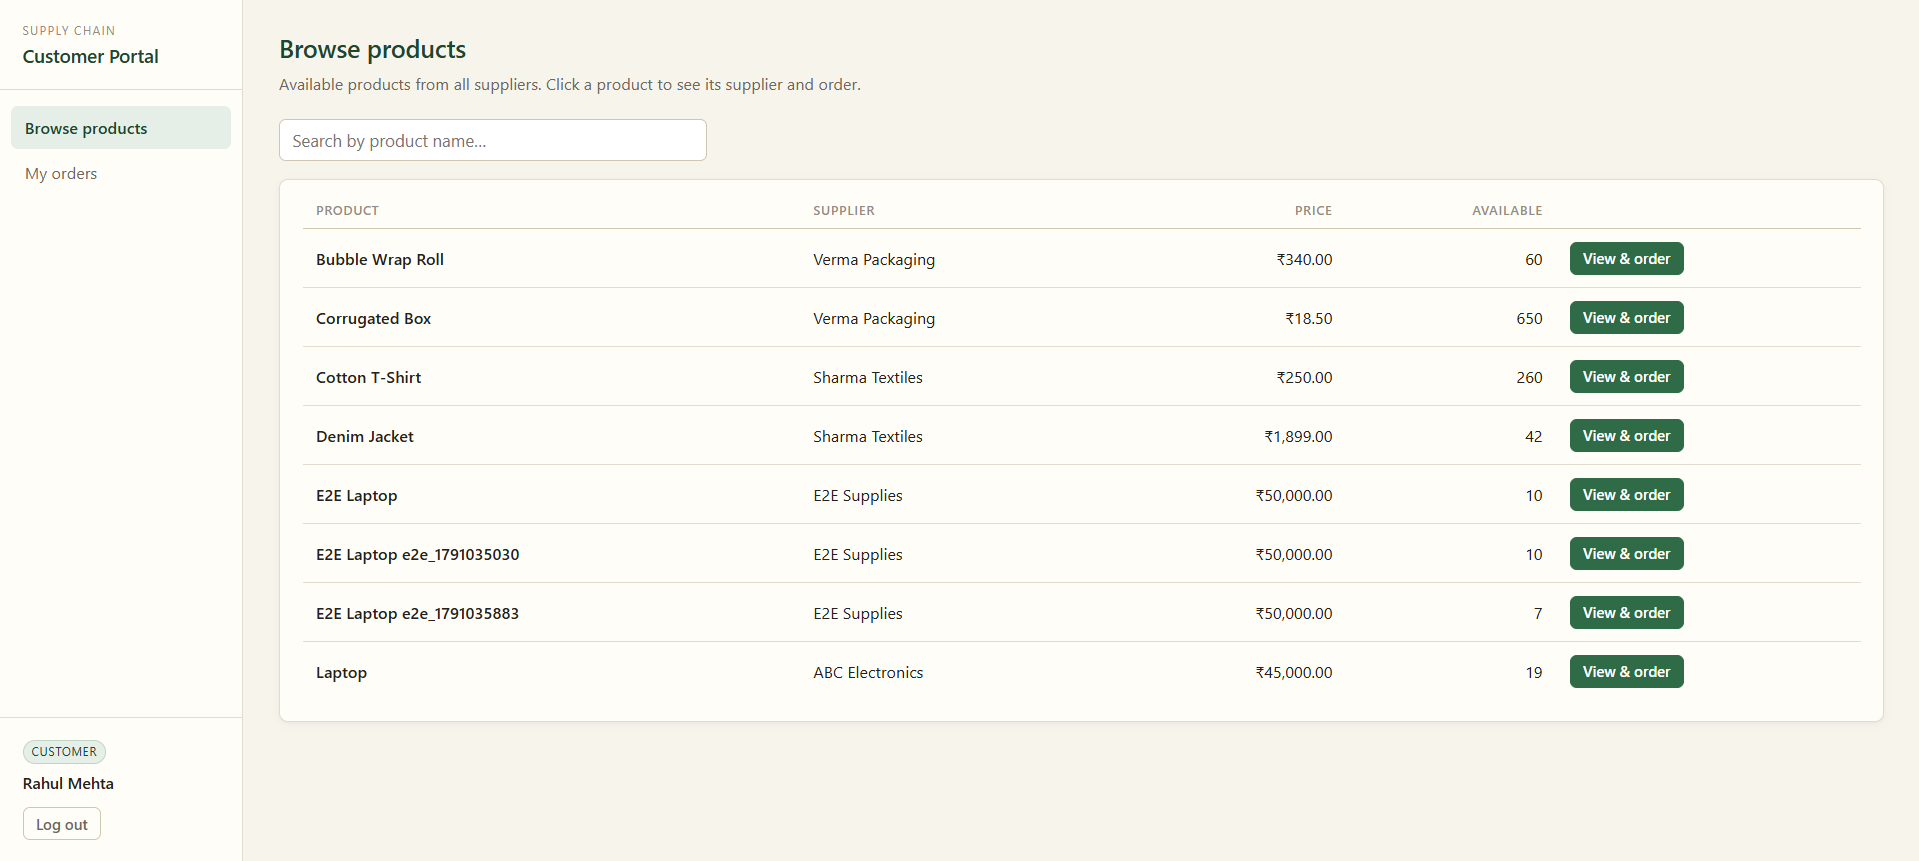
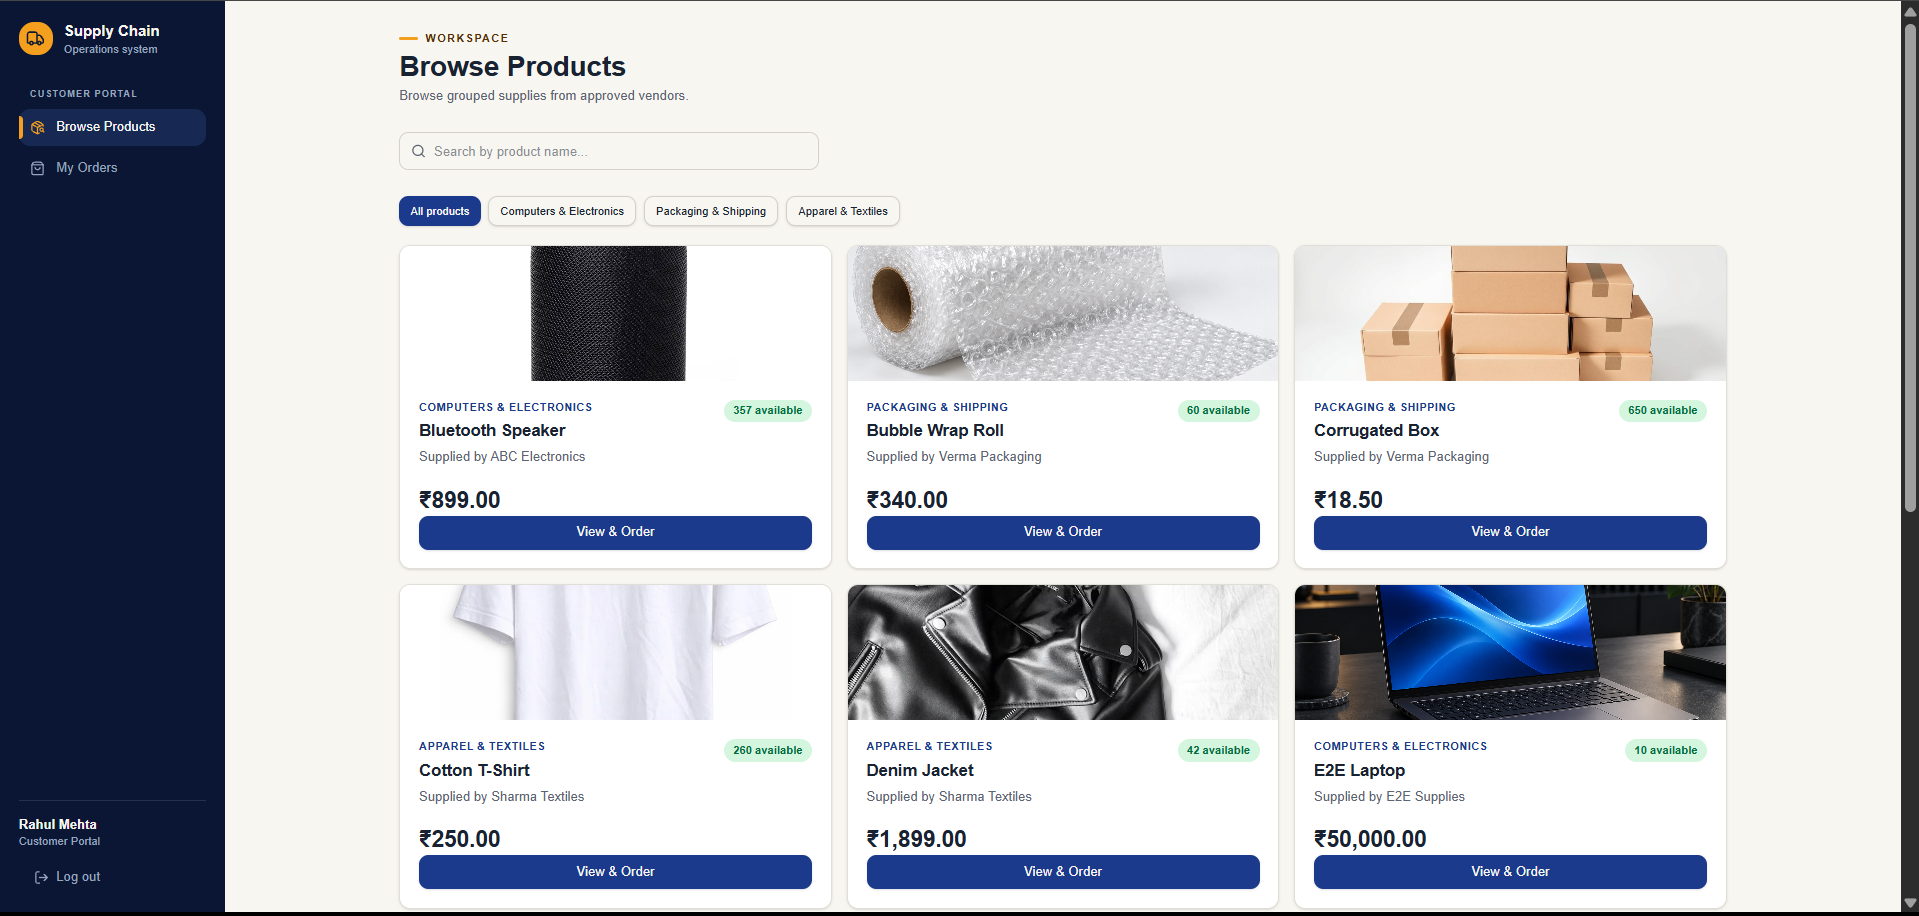
Update README and screenshots for the new UI

diff --git a/README.md b/README.md
@@ -64,14 +64,16 @@ recommendations) is deliberately out of scope.
 | Register, log in, log out | `/register`, `/login` |
 | Add a product (name, price, quantity) | My products |
 | View own products, with created/updated dates | My products |
-| Change the price of an own product | My products → Edit price |
+| Change the price of an own product | My products → Price |
 | Restock inventory for an own product | My products → Restock |
-| Delete an own product, preserving order history | My products → Delete |
+| Delete an own product, preserving order history | My products → delete (bin) icon |
 | See incoming orders for own products, with customer, shipping address, product, quantity, date, time and status | Incoming orders |
+| Search incoming orders by customer, product or order number, and filter by status with a count per status | Incoming orders |
+| See the current stock of the ordered product on each incoming order | Incoming orders |
 | Accept an order (the only action that reduces stock) | Incoming orders → Accept |
 | Reject an order (stock unchanged) | Incoming orders → Reject |
 | Cancel an order with a mandatory stored reason | Incoming orders → Cancel |
-| Sales analytics: revenue by product, orders over time, totals | Sales |
+| Sales analytics: totals, revenue by product, orders over time, units sold per product | Sales |
 
 A vendor can only ever see and change **their own** products and the orders
 placed against them.
@@ -83,9 +85,10 @@ placed against them.
 | Register, log in, log out | `/register`, `/login` |
 | Browse available products from all vendors | Browse products |
 | Search products by name | Browse products → search box |
+| Filter products by category | Browse products → category chips |
 | View a product's details and its supplier | Browse products → View & order |
 | Place an order with shipping address and phone | Product dialog → Place order |
-| Order history with product, supplier, quantity, price, shipping details, date, time and status | My orders |
+| Order history with product, supplier, quantity, price, shipping details, date, time and status, filterable by status with a count per status | My orders |
 | Cancel own pending order | My orders → Cancel order |
 | See the cancellation reason | My orders |
 
@@ -865,59 +868,55 @@ The screenshots in the next section were taken from the running application.
 ## 14. Screenshots
 
 All screenshots come from the running application with the demo data from
-`database/seed.sql`.
+`database/seed.sql`, plus orders placed while testing.
 
 ### 14.1 Authentication
 
-**Sign in.** One form for both roles: the Customer / Vendor toggle decides
-which account type the credentials are checked against.
+**Sign in.** A split screen: the left panel summarises what the system does
+(inventory, order decisions, sales insight) and the right panel holds the form.
+The Customer / Vendor toggle decides which account type the credentials are
+checked against.
 
 ![Login page](docs/screenshots/login.png)
 
-**Create an account.** Registration for either role, with the same toggle.
-Required fields are validated in the browser before anything is sent.
-
-![Registration page](docs/screenshots/register.png)
-
 ### 14.2 Vendor portal
 
-**My products.** The vendor's own catalogue with price, available quantity,
-created and updated dates, and the Restock, Edit price and Delete actions. The
-Wireless Mouse sits at quantity 0, which is why it does not appear in the
-customer catalogue. The "Add a product" form shows the browser's required-field
-check.
+**My products.** The vendor's own catalogue with price, stock, created and
+updated dates, and the Restock, Price and delete actions. The "Add Product"
+form sits above it. The note under the heading states the key rule: stock
+decreases only when the vendor accepts an order.
 
 ![Vendor products page](docs/screenshots/vendor-products.png)
 
-**Incoming orders.** Orders placed against this vendor's products, with
-status filters and counts, a search box, the customer's shipping address and
-phone, and Accept, Reject and Cancel actions. Order 11 needs 8 units but only 0
-are in stock, so the page flags the shortfall and disables Accept for it.
-Cancelled orders show their stored reason.
+**Incoming orders.** Orders placed against this vendor's products, shown as
+cards. A search box and status tabs (each with a count) sit at the top. Each
+card shows the customer, quantity, unit price, the **current stock** of the
+product, the delivery location when one was given, and the Cancel action.
+Cancelled orders keep their stored reason.
 
 ![Vendor incoming orders](docs/screenshots/vendor-orders.png)
 
-**Incoming orders, filtered to Cancelled.** The mandatory cancellation reason
-is stored on the order and displayed here.
-
-![Vendor cancelled orders with reason](docs/screenshots/vendor-orders-cancelled.png)
-
-**Sales.** Totals plus a revenue-by-product chart and an orders-over-time
-chart. Only accepted orders count as revenue, so the 2 pending orders are shown
-separately as "Awaiting decision".
+**Sales.** Three summary cards (total revenue, accepted orders, pending
+orders), a revenue-by-product chart, an orders-over-time chart and a Units
+Sold table. Only accepted orders count as revenue; rejected and cancelled
+orders are excluded.
 
 ![Vendor sales analytics](docs/screenshots/vendor-sales.png)
 
 ### 14.3 Customer portal
 
-**Browse products.** The combined catalogue of every orderable product, with
-the supplier shown on each row and a search box that filters by product name.
+**Browse products.** Product cards with an image, the category, the product
+name, the supplier, the price and an availability badge, plus a name search and
+category chips (All products, Computers & Electronics, Packaging & Shipping,
+Apparel & Textiles). "View & order" opens the product and its supplier.
 
 ![Customer product catalogue](docs/screenshots/customer-shop.png)
 
-**My orders.** The customer's own order history with supplier, quantity,
-price, date and time, status, delivery details, and a Cancel button on pending
-orders. A cancelled order shows its reason, the same text the vendor sees.
+**My orders.** The customer's own order history as cards, with status tabs
+and counts. Each card shows the product, supplier, quantity, unit price, total
+and the date and time. Order 48 shows its delivery address and phone, and the
+cancellation reason that the vendor entered, the same text the vendor sees.
+Pending orders carry a Cancel button.
 
 ![Customer order history](docs/screenshots/customer-orders.png)
 
@@ -930,6 +929,6 @@ orders. A cancelled order shows its reason, the same text the vendor sees.
 | **Shubh Tyagi** | SQL logic | The order-workflow functions in `functions.sql` (place/accept/reject/cancel), row locking and transaction handling, the three views, `queries.sql`, `seed.sql` |
 | **Imran Farhat** | Database design | ER model and relational schema, normalisation to 3NF, `tables.sql` and `constraints.sql`, the referential-integrity strategy for product deletion, indexes |
 | **Mayank Kushwaha** | Backend | FastAPI routers, JWT authentication and the role dependencies, mapping database errors to API responses, environment-based configuration, the API test suite |
-| **Sakshee Kumari** | Frontend | React pages for both roles, the cream-and-green design system, product search, the order and cancellation dialogs, the Recharts sales views, responsive layout |
+| **Sakshee Kumari** | Frontend | React pages for both roles, the navy-and-amber design system, product cards with category filters and search, the order and cancellation dialogs, the Recharts sales views, responsive layout |
 
 
